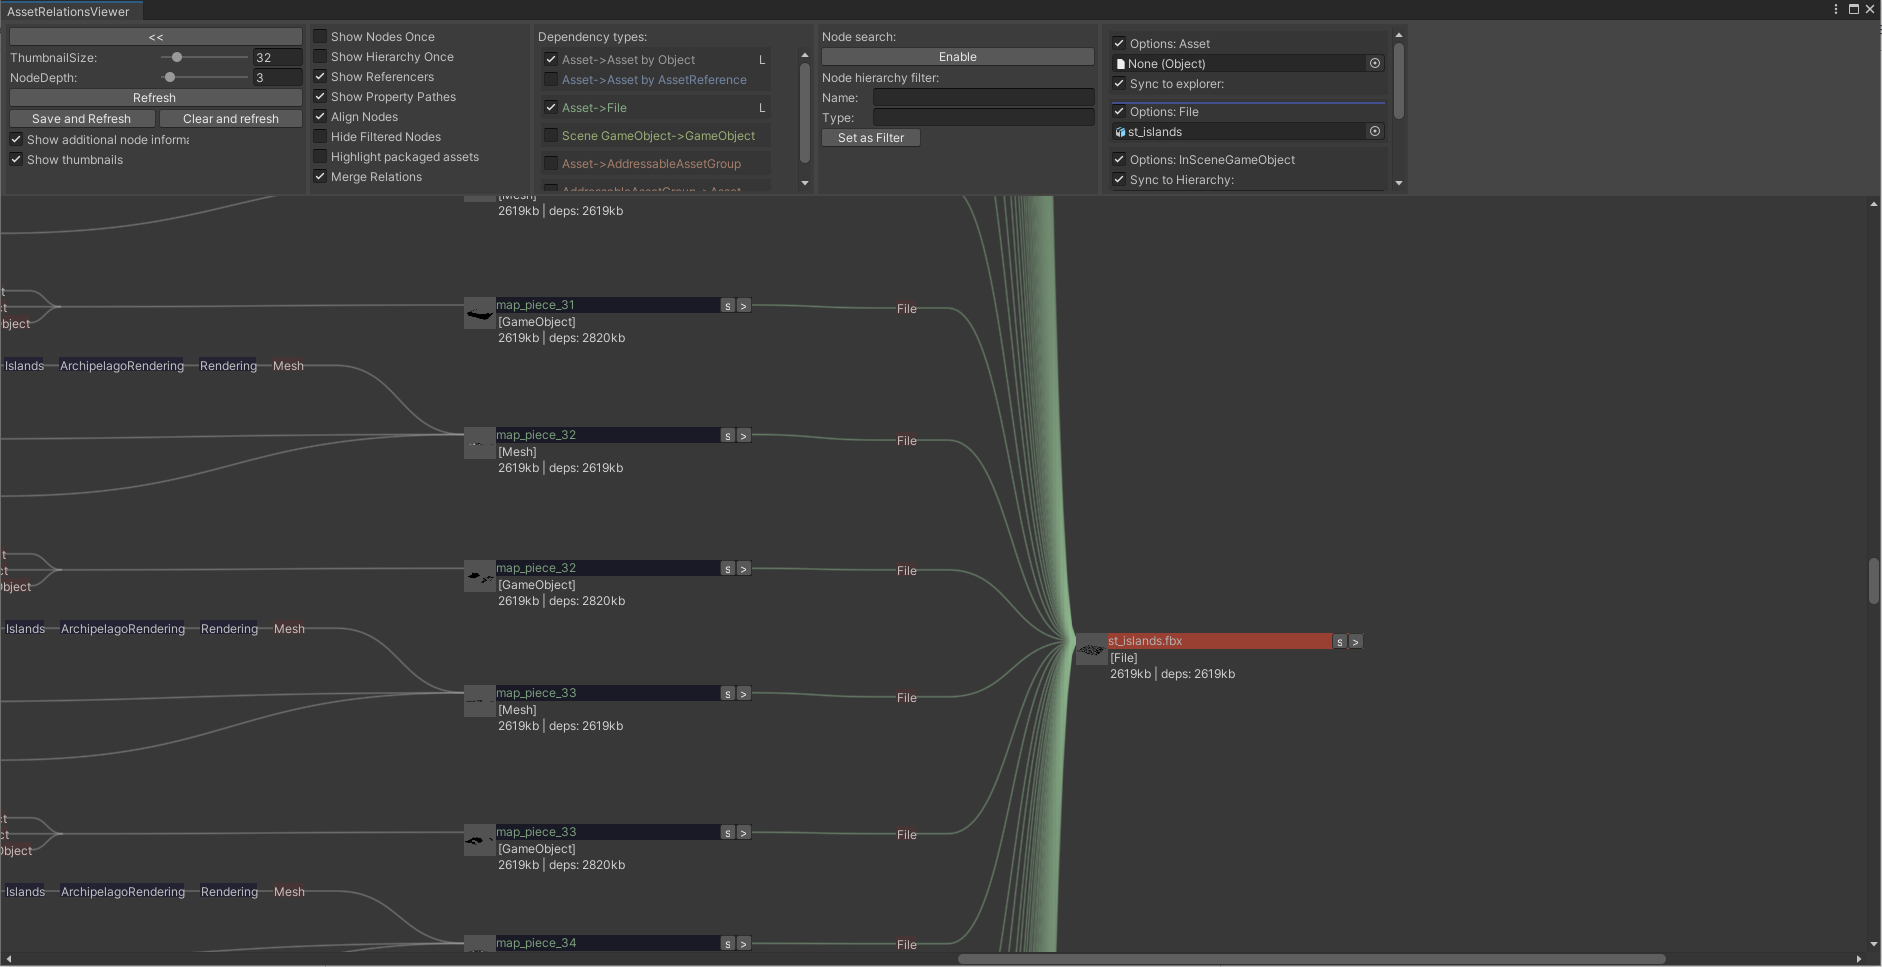
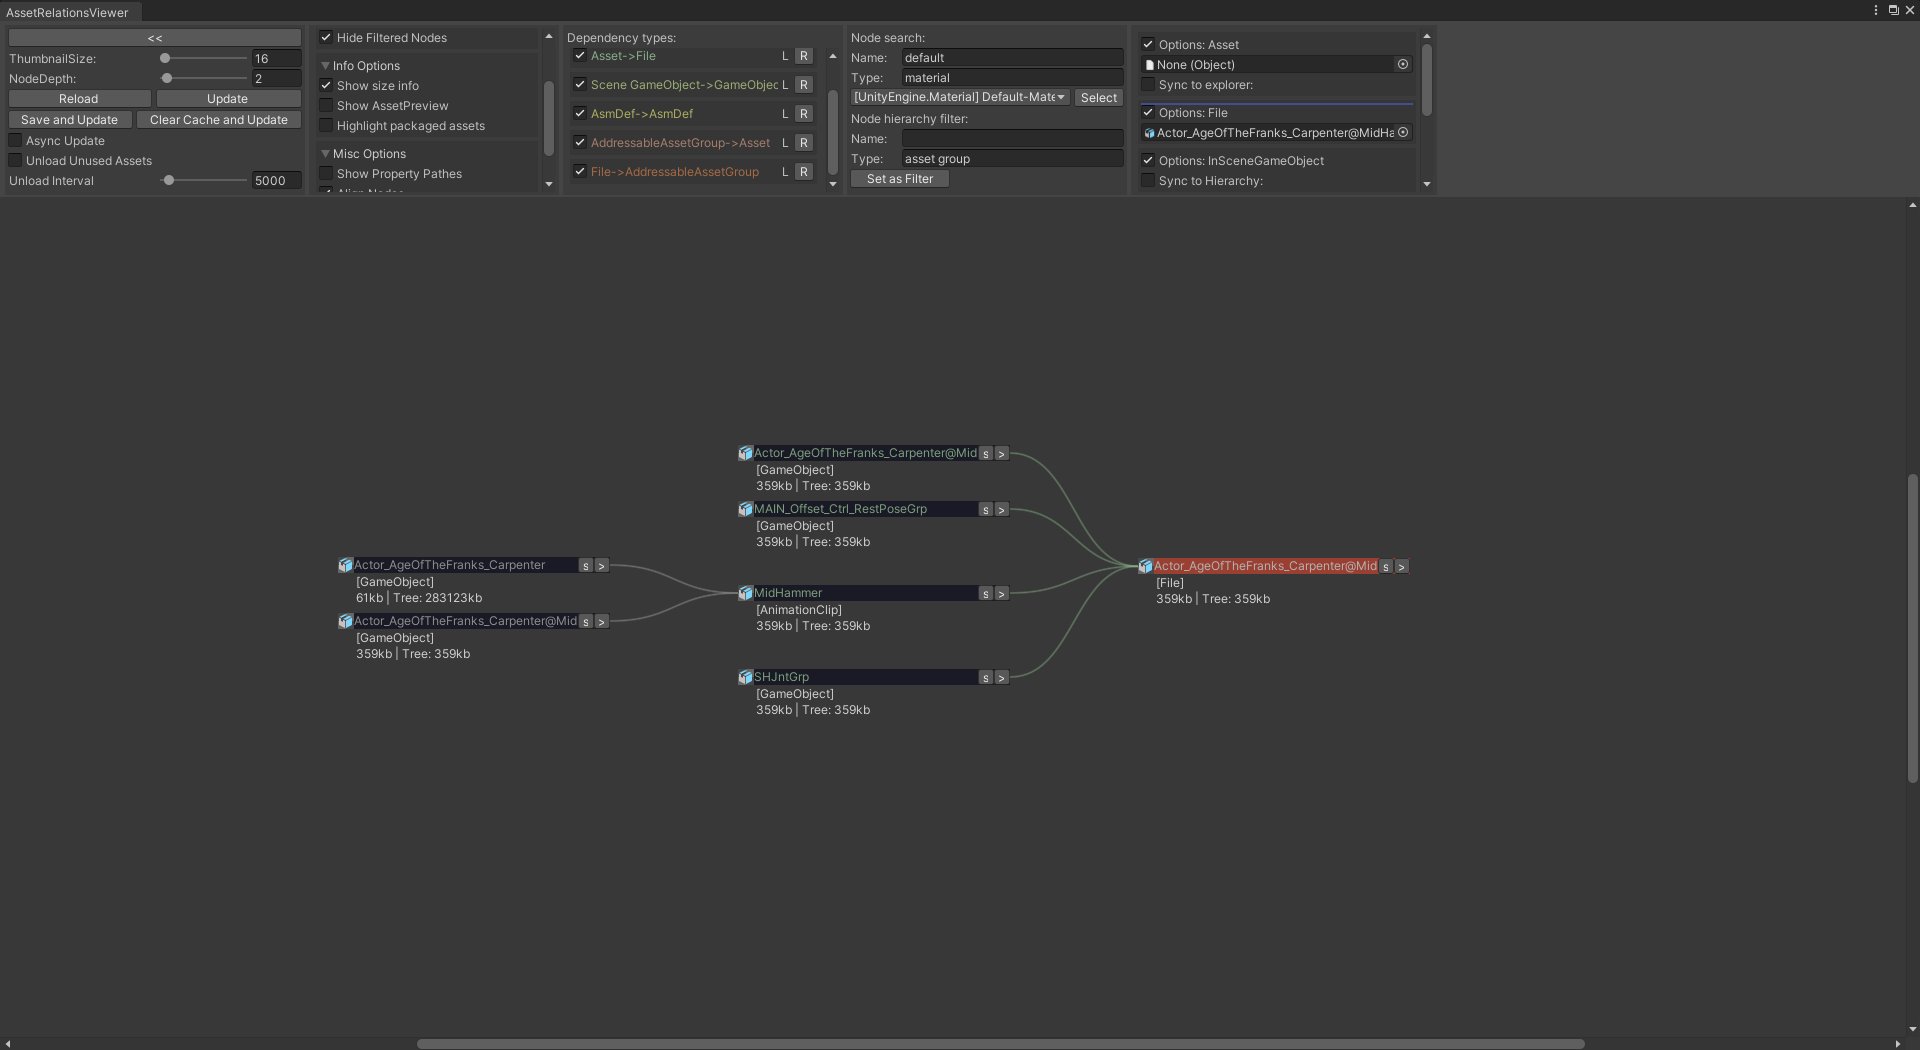
Update readme.md

diff --git a/AssetRelationsViewer/Editor/AssetRelationsViewerWindow.cs b/AssetRelationsViewer/Editor/AssetRelationsViewerWindow.cs
@@ -547,12 +547,12 @@ namespace Com.Innogames.Core.Frontend.AssetRelationsViewer
 				i => InvalidateNodeStructure());
 
 			EditorGUILayout.BeginHorizontal();
-			if (GUILayout.Button("Refresh"))
+			if (GUILayout.Button("Reload"))
 			{
 				ReloadContext(false);
 			}
 
-			if (GUILayout.Button("Update and Refresh"))
+			if (GUILayout.Button("Update"))
 			{
 				ReloadContext();
 			}
@@ -560,13 +560,13 @@ namespace Com.Innogames.Core.Frontend.AssetRelationsViewer
 			EditorGUILayout.EndHorizontal();
 
 			EditorGUILayout.BeginHorizontal();
-			if (GUILayout.Button("Save and Refresh"))
+			if (GUILayout.Button("Save and Update"))
 			{
 				AssetDatabase.SaveAssets();
 				ReloadContext();
 			}
 
-			if (GUILayout.Button("Clear and refresh"))
+			if (GUILayout.Button("Clear Cache and Update"))
 			{
 				if (EditorUtility.DisplayDialog("Clear cache",
 					    "This will clear the cache and might take a while to recompute. Continue?", "Yes", "No"))

diff --git a/README.md b/README.md
@@ -1,8 +1,8 @@
 # Asset Relations Viewer
 
-Plugin to display dependencies between assets, files, assetgroups, etc. in a tree based view within the Unity editor.
+Plugin to display dependencies between assets, files, AddressableAssetGroups, etc. in a tree based view within the Unity editor.
 
-![](Docs~/Images/arv.png)
+![](Docs~/Images/arv_overview.png)
 
 - [Features](#features)
 - [Installation](#installation)
@@ -30,7 +30,7 @@ Plugin to display dependencies between assets, files, assetgroups, etc. in a tre
 * Show path of where an asset is used exactly within a scene, prefab or asset
 * Display byte size of compressed asset together with overall size of dependency tree
 * Extendable by own dependency resolvers, for example to show addressables
-* Support additional connection- and nodetypes which can be added via addons, for example:
+* Support for additional Connection- and NodeTypes which can be added via addons, for example:
 	* Addressable Groups
 	* Addressables
 	* AssetBundles
@@ -38,7 +38,7 @@ Plugin to display dependencies between assets, files, assetgroups, etc. in a tre
 	* AssemblyDefinitions
 	* Etc.
 
-<br><br><br><br>
+<br><br>
 
 ## Installation
 
@@ -63,49 +63,53 @@ If you are in production and not want to get automatic updates always use a tagg
 
 ```
 
-<br><br><br><br>
+<br><br>
 ## First Usage
 
 1. Select an asset within the unity project explorer
 2. Right click to open context menu for an asset
-3. Select "Show in Asset Relations Viewer"
+3. Select the "Asset Relations Viewer/Open" menu item
 4. On Dialog for the first startup of AssetRelationsViewer click on yes
 5. Wait for the resolver to find all dependencies for all assets in the project which can take a while for a large project with many assets
 
-<br><br><br><br>
+<br><br>
 ## Controls
 
 #### Menu items
 
-Menu items sorted from left to right
-
+Menu items sorted from left to right.
 <br>
 
-**Back button ("<<")**: Button to go back to previous selected asset to view <br/>
-**Thumbnail Size**: Size of the thumbnails in pixels <br/>
-**Node Depth**: Depth of the shown tree structure <br/>
-**Refresh**: Updates dependencies and refreshes view after asset has changed <br/>
-**Save and Refresh**: Saves the project before refresh <br/>
-**Clear and Refresh**: Clears cache before refresh to force a complete rebuild of all caches <br/>
-**Show additional node information **: Displays size and also type of the nodes <br/>
-**Show Thumbnails**: Shows correct thumbnails on nodes if available <br/>
-**Show nodes Once**: To only show each node (Asset) once within the displayed tree <br/>
-**Show hierarchy Once**: To only show the same dependency hierarchy for a node once within the displayed tree <br/>
-**Show referencers**: If referencers (Assets that have the selected asset as a dependency) should be shown or not <br/>
-**Show Property Pathes**: Shows path of dependency (GameObject->Components->ClassMemberVariable) <br/>
-**Align Nodes**: If all nodes of the same depth should be aligned horizontally in the displayed tree  <br/>
-**Hide Filtered Nodes**: Hide all nodes that are filtered out instead of just graying them out <br/>
-**Highlight packaged assets**: Adds green highlight to nodes which are going to be packed into the app (Are actually used by the game) <br/>
-**Merge Relations**: If a node has the same asset as a dependency multiple times, the same dependency is just shown once <br/>
+**Back button ("<<")**: Button to go back to previous selected asset to view.<br/>
+**Thumbnail Size**: Size of the thumbnails in pixels.<br/>
+**Node Depth**: Depth of the shown tree structure.<br/>
+
+**Reload**: Reloads the cache without update.<br/>
+**Update**: Updates dependencies and refreshes view after asset has changed.<br/>
+**Save and Update**: Saves the project before updating cache.<br/>
+**Clear Cache and Update**: Clears cache before updating to force a complete rebuild of all caches.<br/>
+
+**Async Update**: Enables update of cache being split in multiple frames. This enables Unity to properly unload and clean memory resulting in much less memory peak consumption at the cost of longer update times. [Info](#async-dependency-update-details)<br/>
+**Unload Unused Assets**: If Unused Assets should be unloaded during cache update. Doing so will result in Assets being reloaded multiple times during update resulting in less peak memory at the cost of longer update times.<br/>
+**Unload Interval**: The interval at which unused assets should be unloaded.<br/>
+
+**Show additional node information **: Displays size and also type of the nodes.<br/>
+**Show Thumbnails**: Shows correct thumbnails on nodes if available.<br/>
+**Show nodes Once**: To only show each node (Asset) once within the displayed tree.<br/>
+**Show hierarchy Once**: To only show the same dependency hierarchy for a node once within the displayed tree.<br/>
+**Show referencers**: If referencers (Assets that have the selected asset as a dependency) should be shown or not.<br/>
+**Show Property Pathes**: Shows path of dependency (GameObject->Components->ClassMemberVariable).<br/>
+**Align Nodes**: If all nodes of the same depth should be aligned horizontally in the displayed tree.<br/>
+**Hide Filtered Nodes**: Hide all nodes that are filtered out instead of just graying them out.<br/>
+**Highlight packaged assets**: Adds green highlight to nodes which are going to be packed into the app (Are actually used by the game).<br/>
+**Merge Relations**: If a node has the same asset as a dependency multiple times, the same dependency is just shown once.<br/>
 
 #### Node
 
 ![](Docs~/Images/arv_node.png)
 
-**s**: If the selected node is an asset, it will be selected in the unity project explorer <br/>
-**>**: Sets node as currently selected node <br/>
-
-<br><br><br><br>
+**s**: If the selected node is an asset, it will be selected in the unity project explorer.<br/>
+**>**: Sets node as currently selected node.<br/>
 
 # Dependency type list
 The AssetRelationViewer can display several types of dependencies. In order for them to show up these need to be selected first.
@@ -117,10 +121,10 @@ Unused dependency types can be unloaded by clicking on the <b>U</b> button.
 
 ![](Docs~/Images/arv_connectiontypes_activation.png)
 
-**L** Dependency type is active and currently loaded <br/>
-**R** Dependency type got activated but needs to be loaded <br/>
-**U** Dependency type got deactivated and can be unloaded <br/>
-**R Button** Refreshes the dependencies just for this dependency type
+**L** Dependency type is active and currently loaded.<br/>
+**R** Dependency type got activated but needs to be loaded.<br/>
+**U** Dependency type got deactivated and can be unloaded.<br/>
+**R Button** Refreshes the dependencies just for this dependency type.
 
 ## Dependency types
 
@@ -130,111 +134,119 @@ Dependencies of assets to assets by a UnityEngine.Object reference.
 ![](Docs~/Images/arv_assettoasset_dependencies.png)
 
 ### Asset->File
-Dependencies of assets to the file they are part of. <br/>
-This is required since a file can have several subassets meaning that an asset is not automatically the file itself even though most files only contain a single asset. <br/>
-Note: Only the file itself has size information about the assets it contains. So in order to get size information with the "Show additional node information" this dependecy type need to be enabled <br/>
+Dependencies of assets to the file they are part of.<br/>
+This is required since a file can have several sub assets meaning that an asset is not automatically the file itself even though most files only contain a single asset.<br/>
+Note: Only the file itself has size information about the assets it contains. So in order to get size information with the "Show additional node information" this dependency type need to be enabled.<br/>
 
 ![](Docs~/Images/arv_assettofile_dependencies.png)
 
 ### Scene GameObject->GameObject
-Dependencies of GameObject to GameObjects within the currently loaded scene or prefab. <br/>
-If an in scene GameObject is selected as the viewed node only GameObject->GameObject dependencies are shown. The GameObject->GameObject dependency view can not be viewed together with other dependencies. <br/>
-Note: If the opened scene/prefab changed after opening the AssetRelationViewer the cache needs to be refreshed. <br/> 
+Dependencies of GameObject to GameObjects within the currently loaded scene or prefab.<br/>
+If a GameObject is selected as the viewed node only GameObject->GameObject dependencies are shown. The GameObject->GameObject dependency view can not be viewed together with other dependencies.<br/>
+Note: If the opened scene/prefab changed after opening the AssetRelationViewer the cache needs to be refreshed.<br/> 
 
-![](Docs~/Images/arv_inscene_dependencies.png)
+![](Docs~/Images/arv_inscene_gameobject_dependencies.png)
 
 ### AsmDef->AsmDef
 Dependencies between AssemblyDefinitions to other AssemblyDefinitions as well as AssemblyDefinitionReferences to AssemblyDefinitions
-![](Docs~/Images/arv_assemblydefintion_to_assemblydefinition_dependencies.png)
+![](Docs~/Images/arv_asmdef_to_asmdef_dependencies.png)
+
+## Dependency types for Unity Addressables
+The following dependency types are only available if the Unity Addressables addon is added to the project.
 
 ### Asset->Asset by AssetReference
 
-In addressables a different Object can be referenced by a so called AssetReference instead of UnityEngine.Object <br/>
+In addressables a different Object can be referenced by a so called AssetReference instead of UnityEngine.Object<br/>
 To display these references this node type needs to be enabled. <br/>
 
-![](Docs~/Images/arv_assetreferences.png)
+![](Docs~/Images/arv_assettoassetref_dependencies.png)
 
 ### AddressableAssetGroup->Asset
 
-AddressableAssetGroups of the Addressable system contain a list of assets. <br/>
-By enabling this dependency type these assets can be viewed as a dependency. <br/>
-
-![](Docs~/Images/arv_addressableassetgroup.png)
+AddressableAssetGroups of the Addressable system contain a list of assets.<br/>
+By enabling this dependency type these assets can be viewed as a dependency.<br/>
 
 ### Asset->AddressableAssetGroup
 
-Used to display the dependecy of an asset to the AddressableAssetGroup it is part of. <br/>
-This is basically the opposite direction of the <b>AddressableAssetGroup->Asset</b> dependency. <br/>
-This can be used to display birectional dependencies between assets and AddressableAssetGroups when also the <b>AddressableAssetGroup->Asset</b> is enabled. <br/>
+Used to display the dependency of an asset to the AddressableAssetGroup it is part of.<br/>
+This is basically the opposite direction of the <b>AddressableAssetGroup->Asset</b> dependency.<br/>
+This can be used to display bidirectional dependencies between assets and AddressableAssetGroups when also the <b>AddressableAssetGroup->Asset</b> is enabled.<br/>
 
 #### Note
 Having both <b>AddressableAssetGroup->Asset</b> and <b>Asset->AddressableAssetGroup</b> enabled at the same time can lead to very large dependency trees if AssetBundles have a lot of dependencies to other AssetBundles. <br/>
-Before enabling both the <b>NodeDepth:</b> should be reduced to something like 4. Otherwise generating the tree structure can take very long.
 
 ![](Docs~/Images/arv_bidirectional_assetgroup_dependencies.png)
 
 ## Caching
-Most dependency types are cached to only update the dependencies again if the file itself got changed. <br/> 
+Most dependency types are cached to only update the dependencies again if the file itself got changed.<br/> 
 This greatly reduces the startup time of the AssetRelationsViewer since for large projects finding all Asset->Asset dependencies can take several minutes.
-If a file needs to be updated is currently determinined by the timestamp of the file but could be changed to in addition also take a file hash into account.
+If a file needs to be updated is currently determined by the timestamp of the file but could be changed to in addition also take a file hash into account.
 
 ### Location
-The caches are stored in PROJECT_ROOT/Library/NodeDependencyCache/ <br/> 
-Dependending on the projectsize these files can be several several megabytes in size. <br/> 
+The caches are stored in <b>PROJECT_ROOT/Library/NodeDependencyCache/</b>.<br/> 
+Depending on the project size these files can be several several megabytes in size.<br/> 
 
 ### Clearing the cache
 The cache files can either be deleted manually or inside Unity under the Window/Node Dependency Cache/Clear Cache Files menu item.
 
-<br><br><br><br>
 # Node search and filter
 ![](Docs~/Images/arv_node_search_and_filter.png)
 
 ## Node search
-Since every type of node can be viewed in the AssetRelationViewer like Assets, Files, AddressableAssetGroups, AsmDefs, etc. is sometime helpful to have a generic node search.<br/>
-Because finding all nodes in the projects might take a while this feature needs to be activated first by clicking on the "Enable" botton.<br/>
-Only known nodes based on the activated dependency types are shown, meaning that if for example no asset related dependency type is active no assets can be found in the node search. <br/>
+Since every type of node can be viewed in the AssetRelationViewer like Assets, Files, AddressableAssetGroups, AsmDefs, etc. is sometimes helpful to have a generic node search.<br/>
+Only known nodes based on the activated dependency types are shown, meaning that only nodes found by any activated DependencyCaches are selectable.<br/>
 Nodes can be searched for by name and by type. <br/>
-Based on the filtered name and type the dropdown will show all available nodes to select. <br/>
-Once selected in the dropdown the current node can be shown in the AssetRelationsViewer by clicking <b>Select</b>. <br/>
+Based on the filtered name and type the dropdown will show all available nodes to select.<br/>
+This enables also to find nodes that are otherwise not findable in the explorer, like the Default-Material of Unity.<br/>
+Once selected in the dropdown the current node can be shown in the AssetRelationsViewer by clicking <b>Select</b>.<br/>
 
 ## Node hierarchy filter
-To specifically filter for either a node name or node type the "Node hierarchy filter:" can be used. <br/>
-Only the matching nodes will be highlighted and all others are grayed out. <br/>
-In the example the dependency tree is filtered for "vertexLit". <br/>
+To specifically filter for either a node name or node type the "Node hierarchy filter:" can be used.<br/>
+Only the matching nodes will be highlighted and all others are grayed out.<br/>
+In the example the dependency tree is filtered for "vertexLit".<br/>
 
-![](Docs~/Images/arv_node_filter.png)
+![](Docs~/Images/arv_node_search_and_filter.png)
 
-<br><br><br><br>
 # Showing dependency pathes
 
-In the AssetRelationsViewer it is possible to not only view dependencies between Asset->Asset for example but also exactly through with path the dependency exist. <br/>
-In order to view the pathes "Show Property Pathes" needs to be activated. <br/>
-Once active the whole path of the dependency (GameObject->Components->ClassMemberVariable) is shown in the hierarchy tree view. <br/>
+In the AssetRelationsViewer it is possible to not only view dependencies between Asset->Asset for example but also exactly through with path the dependency exist.<br/>
+In order to view the pathes "Show Property Pathes" needs to be activated.<br/>
+Once active the whole path of the dependency (GameObject->Components->ClassMemberVariable) is shown in the hierarchy tree view.<br/>
 
 ![](Docs~/Images/arv_pathes.png)
 
 # Node handlers
-GUI options specific to a node type. <br/>
+GUI options specific to a node type.<br/>
 
 ![](Docs~/Images/arv_typehandler.png)
 
 ## Asset
-Options specific to Assets. <br/>
+Options specific to Assets.<br/>
 
-Contains dropdown to select an asset in the project. <br/>
+Contains dropdown to select an asset in the project.<br/>
 **Sync to explorer**: If selected the currently selected asset in the project explorer will be the one shown in the AssetRelationsViewer. <br/>
 
 ## File
 Options specific to Files. <br/>
-Currently there are no specific options for them. <br/>
+Currently there are no specific options for them.<br/>
 
 ## InSceneGameObject
-Options for in scene GameObjects. <br/>
+Options for in scene GameObjects.<br/>
 
-Contains dropdown to select a GameObject from the currently opened scene/prefab. <br/>
-**Sync to hierarchy**: If selected the currently selected GameObject in the currently opened scene/prefab will be shown in the AssetRelationsViewer. <br/>
+Contains dropdown to select a GameObject from the currently opened scene/prefab.<br/>
+**Sync to hierarchy**: If selected the currently selected GameObject in the currently opened scene/prefab will be shown in the AssetRelationsViewer.<br/>
 
-<br><br><br><br>
+# Async dependency update details
+![](Docs~/Images/arv_asyncupdate.png)
+Doing the whole dependency search in one frame leads to a very high memory consumption since Unity cant really clean memory here. 
+Even calling CG.Collect() several time during the search does not help.
+<br/><br/>
+For example, the peak memory consumption of a full update on our live project increases ~10GB when doing a full dependency search.
+With the async approach this is only increasing ~3GB.
+<br/><br/>
+This however is at the cost of increased execution times of about 2x.
+The reason for this is that Unity in this case automatically unloads unused assets (which are needed multiple times later) between frames and cleans up memory in general.
+
 # Troubleshooting
 There can be cases where no tree is shown in the AssetRelationsViewer
 
@@ -242,11 +254,10 @@ There can be cases where no tree is shown in the AssetRelationsViewer
 * Make sure a dependency cache (AssetDependencyCache) and dependency resolver (ObjectDependencyResolver) is selected, otherwise no dependency can be found
 * After a code recompile the dependency cache needs to be updated by clicking on "Refresh"
 * Some dependency types might not update/work correctly when being in PlayMode
-* There might be some rare cases where the cache didnt get updated correctly. If there are dependencies missing which you are sure should be displayed sometimes also complete cache rebuild with a <b>Clean and Refresh</b> can help.
+* There might be some rare cases where the cache didn't get updated correctly. If there are dependencies missing which you are sure should be displayed sometimes also complete cache rebuild with a <b>Clean and Refresh</b> can help.
 
-<br><br><br><br>
 # Standalone dependency cache
-The dependency cache can be used without the AssetRelationsViewer. <br/>
+The dependency cache can be used without the AssetRelationsViewer.<br/>
 This makes it possible to use the cache for other tools where dependency information between assets, files, etc. is required. <br/>
 In the following example we find out which asset have a dependency on the BaseProductions prefab.
 
@@ -283,15 +294,14 @@ foreach (Connection referencer in fileNode.Referencers)
 }
 ```
 
-Executing this would result in the following output <br/>
+Executing this would result in the following output<br/>
 <b>[GameObject]BaseProductions is directly referenced by [GameObject]ProductionTabContent</b>
 
 For this script to work in your own project the name and type of the asset in AssetDatabase.FindAssets() needs to be adapted accordingly to an asset that exists in your project.
 
-<br><br><br><br>
 # Addons
 Support to display different connection and node types can be added by addons.
 
-## Writing own addons to support custom connection- and nodetypes
-Own addons can be also added so custom dependencies with any nodetype and dependency type can be added to be viewed inside the Asset Relations Viewer. <br/>
-For an example how to create addons please have a look at the addressables implementation.
+## Writing own addons to support custom Connection- and NodeTypes
+Own addons can be also added so custom dependencies with any NodeType and dependency type can be added to be viewed inside the Asset Relations Viewer. <br/>
+For an example how to create addons please have a look at the Addressables implementation.

diff --git a/changelog.md b/changelog.md
@@ -11,7 +11,8 @@
 - Node Search calculation is now done in seperate thread
 - API changes to INodeHandler and IAssetDependencyResolver to simplify implementations
 - Sizes of FileNodes and AssetNodes are now cached for faster loading
-- Several performance improvements to speed up RelationLookup creation
+- Removed any reflection code and fully rely on SerializedProperties
+- Added async update functionality using Enumerators
 - Removed support for Unity 2018 and below
 
 **1.5.1**
